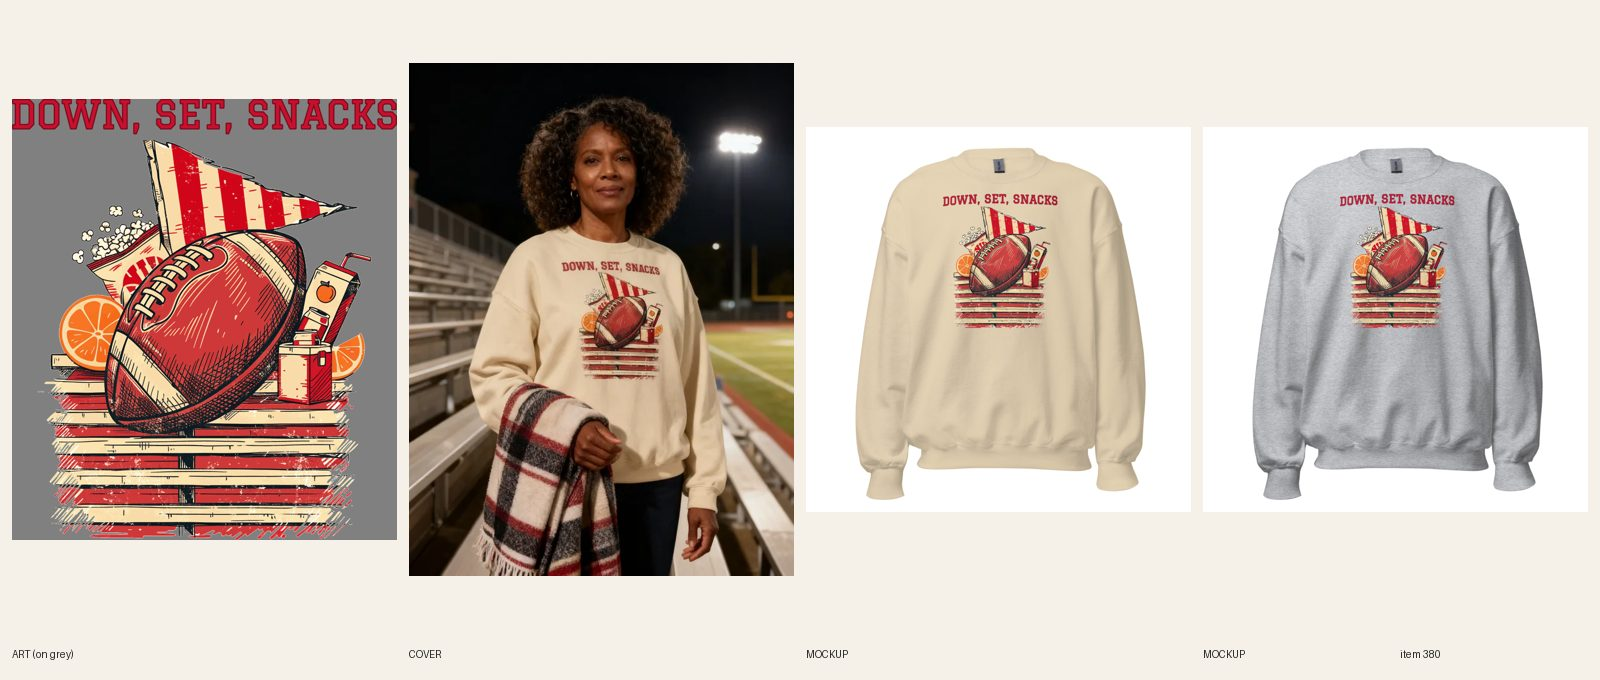
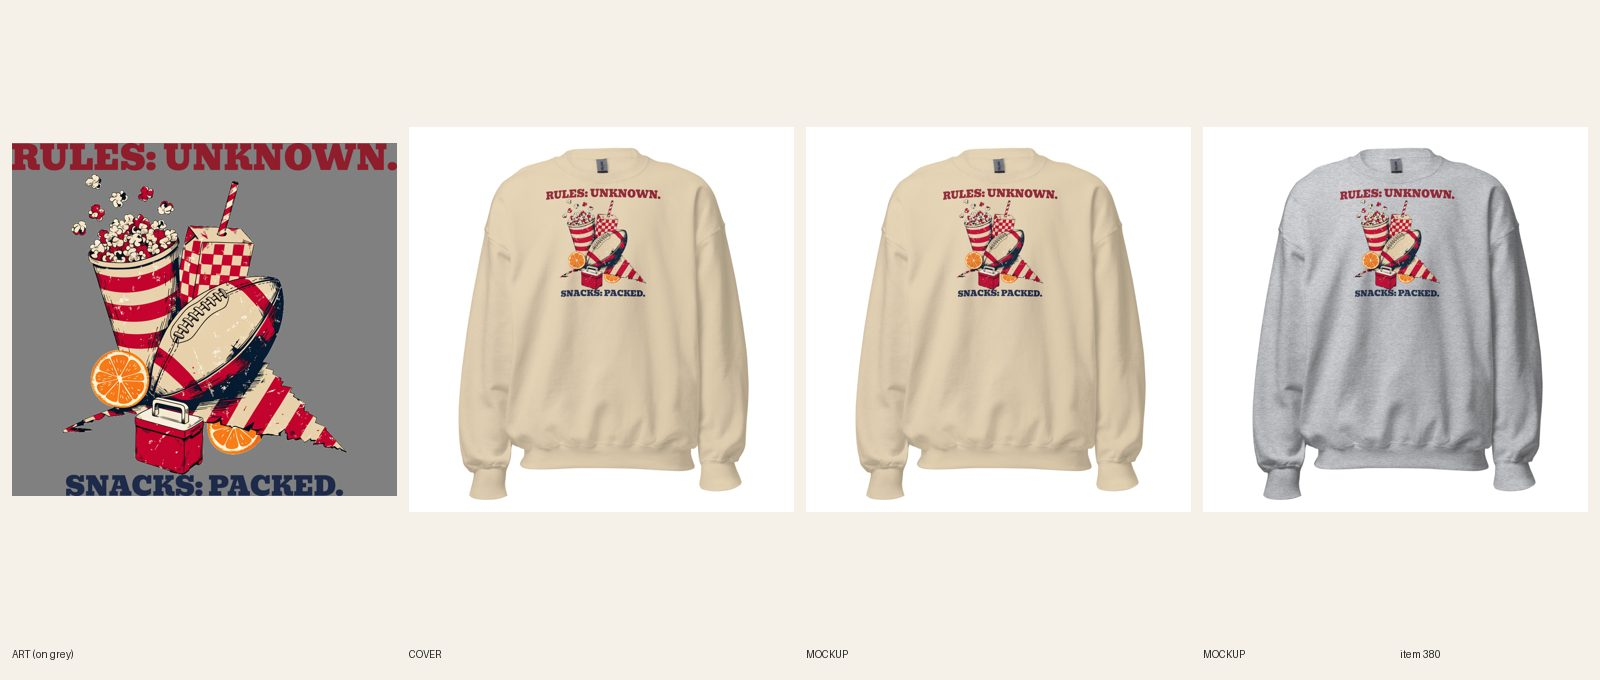
[B] review 380 Rules Unknown Snacks Packed football mom crewneck (line + type redo)

Changed region(s): [[0.0, 0.0926, 0.5, 0.8647], [0.8125, 0.2779, 0.9062, 0.4941], [0.5938, 0.2779, 0.6562, 0.4941]]

diff --git a/docs/pipeline/380-football-mom-crew-down-set-snacks.md b/docs/pipeline/380-football-mom-crew-down-set-snacks.md
@@ -1,4 +1,4 @@
-status: REDO
+status: REVIEW
 lane: B
 type: twin
 id: 380
@@ -26,3 +26,4 @@ kd: 57
 - 2026-10-18 01:08 UTC builder [B]: full build from the tee's print file 1087188227 (no new art). R6.2 check: the source's DOWN, SET, SNACKS was typeset varsity type and the stripes are worn, ragged-edged boards (no ring, arch, disc or box): the typeset line was cropped off and re-set in a real font (Graduate, red with a dark-red keyline) via compose-print, art flattened on white first; the striped bleacher boards have broken worn ends, kept. Colors Sand + Sport Grey (red/cream art on Navy would sink; one file reads on both). Print 11.1 x 12.7 in, FW 1650 TOP 75 (set fresh for the crewneck). DRAFT gid 15364344217904, category aa-1-13-14, 12 variants $34.99, compareAtPrice null, tags mama-sweatshirts/sweatshirt/ai-art/intake-done, keyword football mom sweatshirt 390/KD57 in line one and meta (map entry added), FAQ 6 x 40-60 words incl. Dec 8. Printful file 1088601730, sync 12/12; mockups Sand + Sport Grey + back attached and linked. Phone-size read ok (red caps legible on Sport Grey). Cover: registry 571, 1 fal photo, words read, blanket below the print, no composite needed; alt starts "Woman". Audit-local PASS, astro build OK. fal $0.06.
 - 2026-10-18 01:19 UTC director: LIVE. Graduate re-set fixes the typeset line, stadium cover fits the audience, both colors read. ACTIVE + Online Store/Headless/Google & YouTube, audit PASS 0 warn.
 - 2026-10-18 17:22 UTC director: QUALITY RESET grade C (new line + type), REDO. The product stays ACTIVE (same handle, URL, title keyword). 1. Line (R3.12, quality-reset 'Lines'): "DOWN, SET, SNACKS": Groan pun; thin headline bar only. Write 5 candidates, keep the one a stranger laughs at in 3 seconds without backstory; kill lines that only describe the picture; if none of the 5 is funny, PARK it. 2. Quality reset type bar (docs/backlog/quality-reset.md, 'The new bar'): headline at least 90% of the art width, heavy, colors pulled from the art; second line at least 45% of the headline's height, never a thin script on a dark or mid garment; use the lettering as a shape (arch, stacked lockup, words breaking into the art), not a plain bar above and a script line below; no font used on more than 1 in 6 of the last 30 designs. 3. Keep the art if it carries the new line, else one new illustration (R4/R5). New print means a new cover per R6.10, copy line one rewritten for the new joke (R8.3), and a fresh review sheet (R7.7). While quality-reset.md says PAUSED, only lane A builds, and only the samples step 2 names.
+- 2026-10-20 09:55 UTC builder [B]: REDO 380 (C grade, line + type) done in place (stays ACTIVE, handle unchanged; title now "Women's Football Mom – Rules Unknown, Snacks Packed Crewneck Sweatshirt"). 5 candidates: "RULES: UNKNOWN. / SNACKS: PACKED."; "I Don't Know The Rules. I Brought Snacks."; "Here For The Halftime Show"; "Down, Set, Snacks" (old); "Fourth And Nobody Asked". Kept RULES: UNKNOWN. / SNACKS: PACKED. (parallel deadpan, the snack pile carries it). Old art had a striped bleacher block, so one new Recraft call ($0.04): football on a pennant with popcorn tub, checkered juice box, orange slices and cooler, no words, no block. Bevan at full print width (headline 135% of art width, second line 78% of headline height). Both blanks are light (Sand, Sport Grey): ONE dark-ink file (headline maroon, second line navy; light file logged: Sand 1090175565 / Sport Grey 1090175579, same print). FW 1650 TOP 0 (crewneck, 10.3 in tall). 12/12 synced on the new file per color, back logo kept. Fronts + back replaced in place, alts, title, SEO, copy, FAQs updated. Phone-size read OK on both. Cover: handle added to retired-covers.json. audit --handle PASS 0 warn. fal $0.04. Sheet docs/review/380.jpg. Note: the sibling tee still carries DOWN, SET, SNACKS.

diff --git a/docs/intake-log.md b/docs/intake-log.md
@@ -1,4 +1,5 @@
 2026-10-20 04:46 UTC — [H] Helper run: Telegram inbox empty (getUpdates returned 0 updates; nothing to consume). Audit 607 live products: 0 errors, 31 warnings left alone (polish); committed docs/cohesion-audit.md. Category check: 0 products without a Shopify category. Site check: #548, #578, #618 all 200. Stuck-work check: nothing BUILDING over 3h (#257 and #258 claimed 04:07); lane A lock line from 02:28 is over 2h old but lane A committed at 04:06, so Telegram alert sent once (reply pending from Sam). Daily summary not due (before 12:00 UTC). Lock released.
+2026-10-20 05:06 UTC — [B] Builder run: redid #380 Women's Football Mom crewneck (line + type: RULES: UNKNOWN. / SNACKS: PACKED., new snack-pile art, Bevan, Sand + Sport Grey dark-ink file, 12/12 synced). REVIEW. fal $0.04.
 2026-10-20 04:57 UTC — [B] Builder run: redid #382 Women's Baseball Mom crewneck (line + type: HIS BATTING AVERAGE / IS MY PERSONALITY., new camp-chair art, Oswald, Sand + Ash dark-ink file, 12/12 synced). REVIEW. fal $0.04.
 RUNNING helper since 2026-10-20 04:44 UTC
 2026-10-20 05:03 UTC — [E] Builder run: redid #533 Women's Western tee (line + type: PLEASE STOP TALKING. I LOVE YOU., new cowgirl armadillo art, one dark-ink file on 5 light colors, 30/30 synced, copy updated, plain product shot). REVIEW. fal $0.04.
